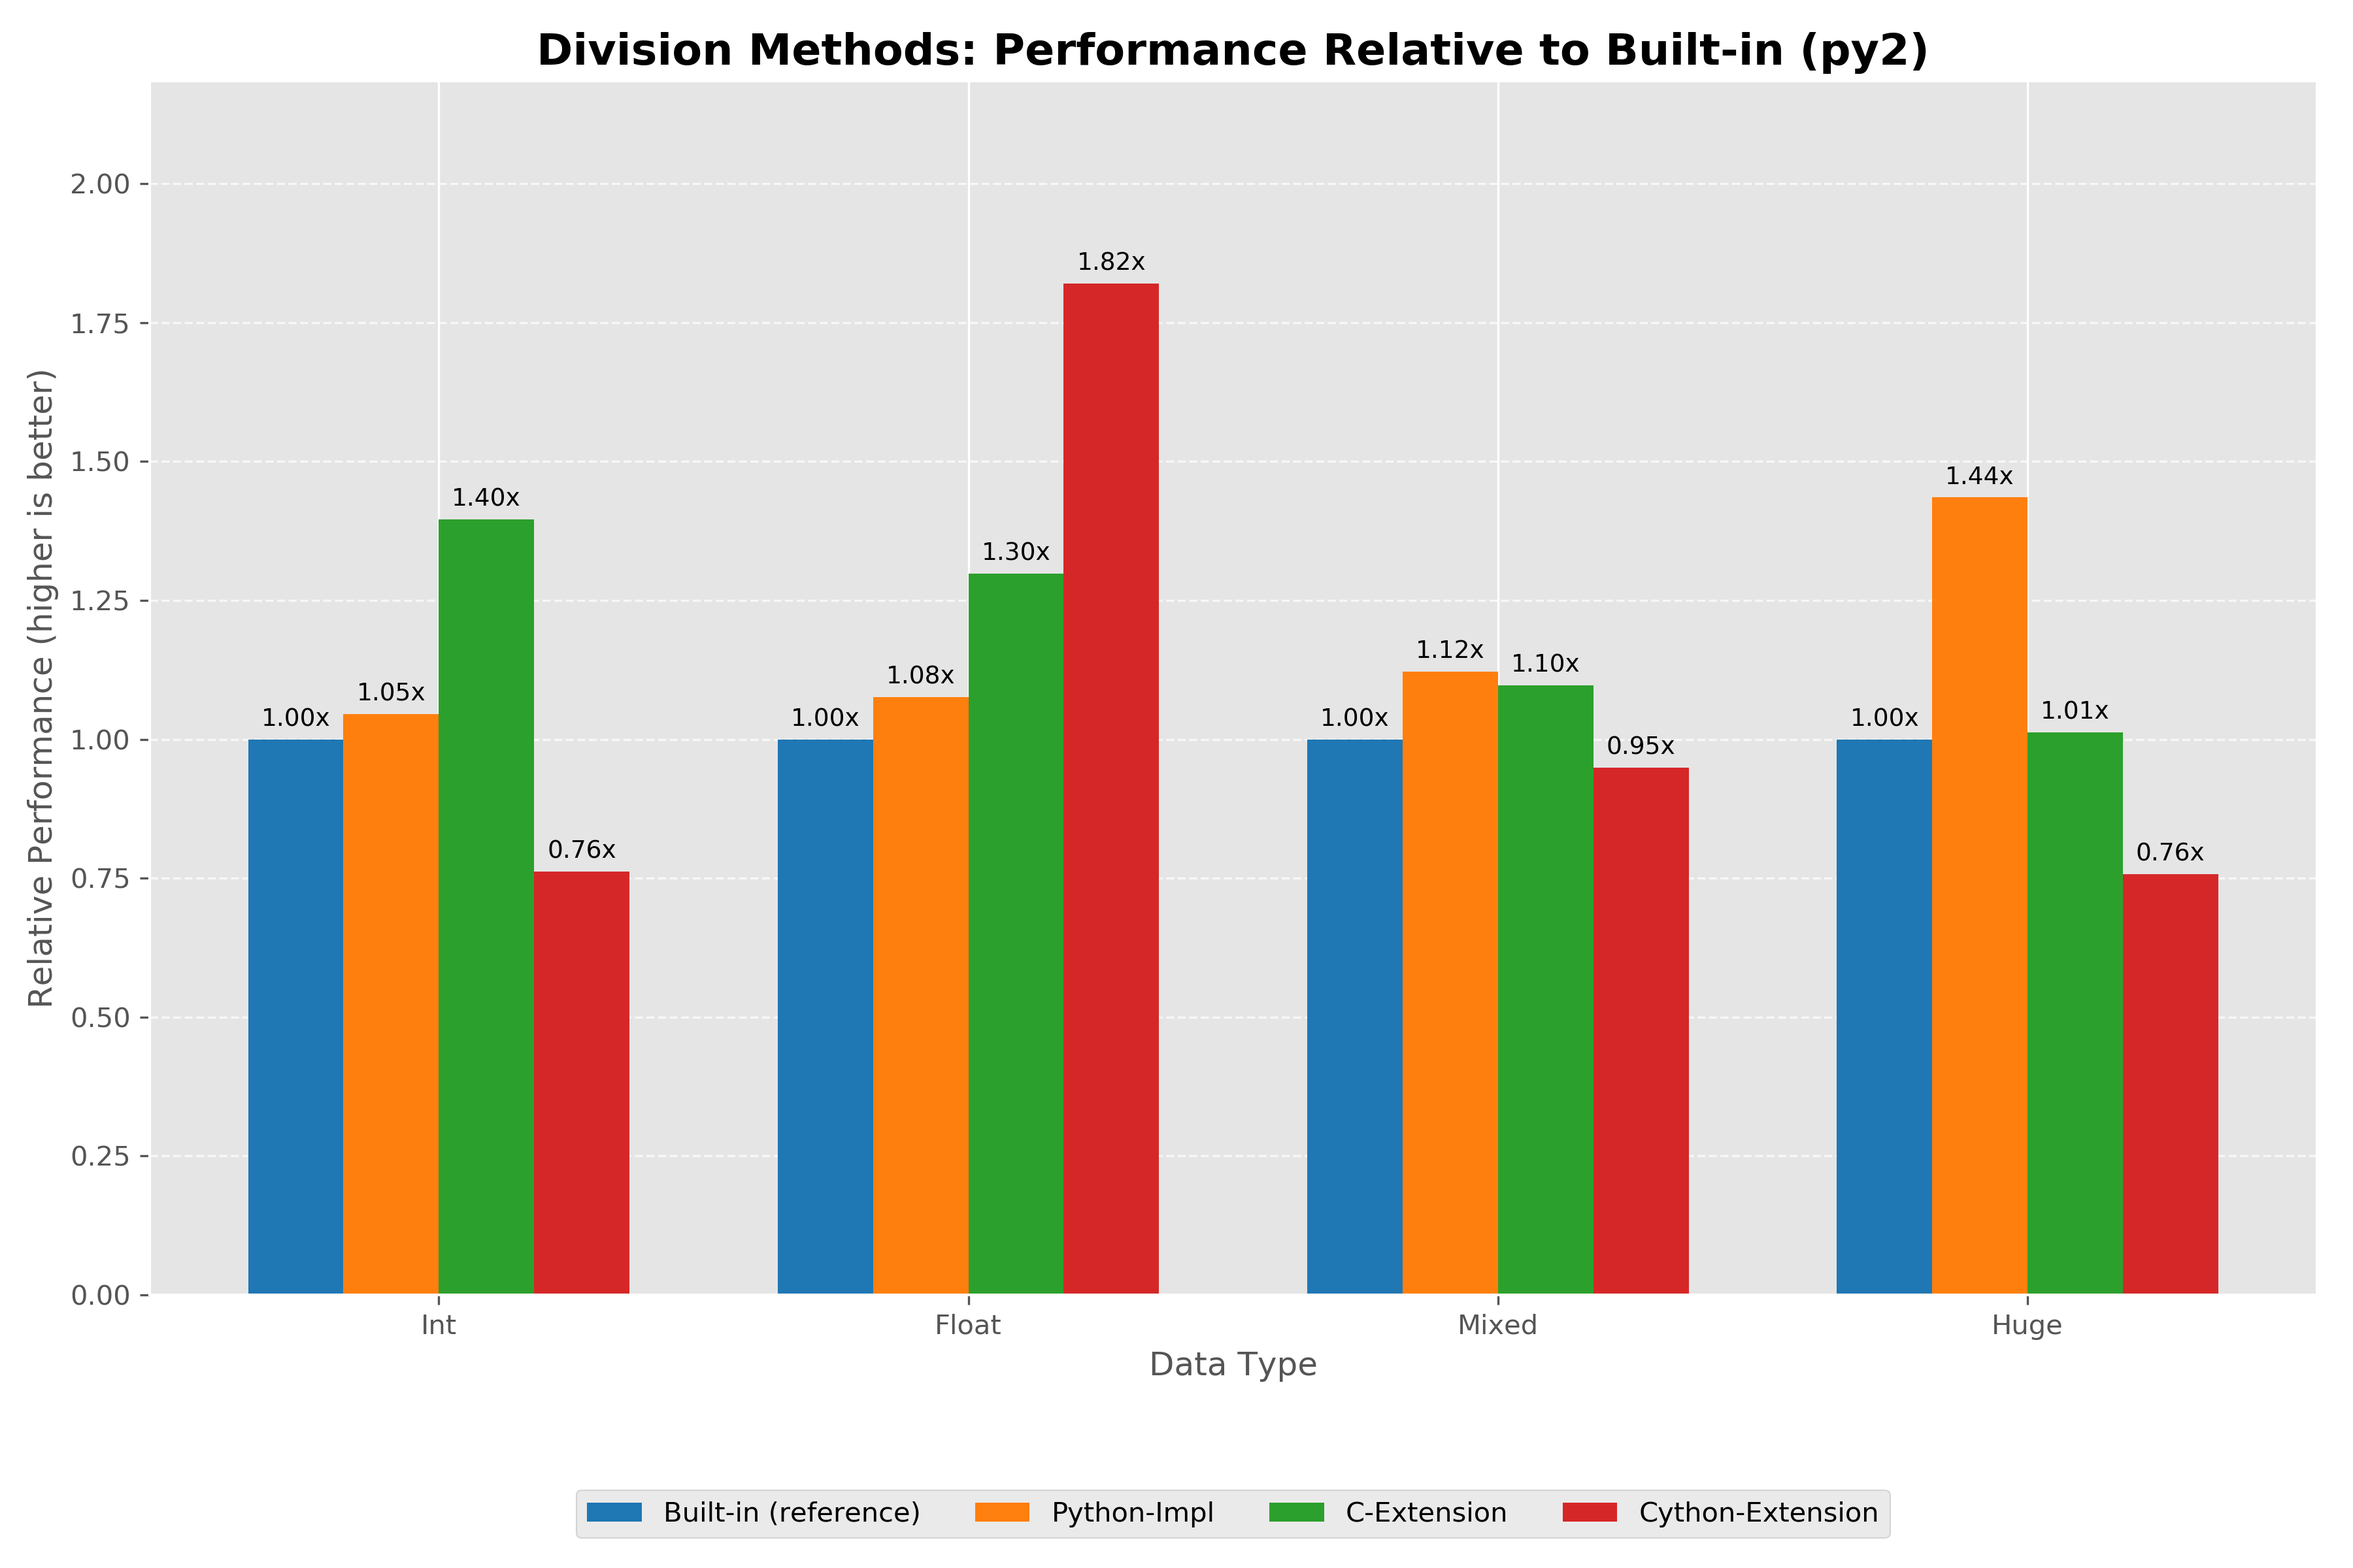
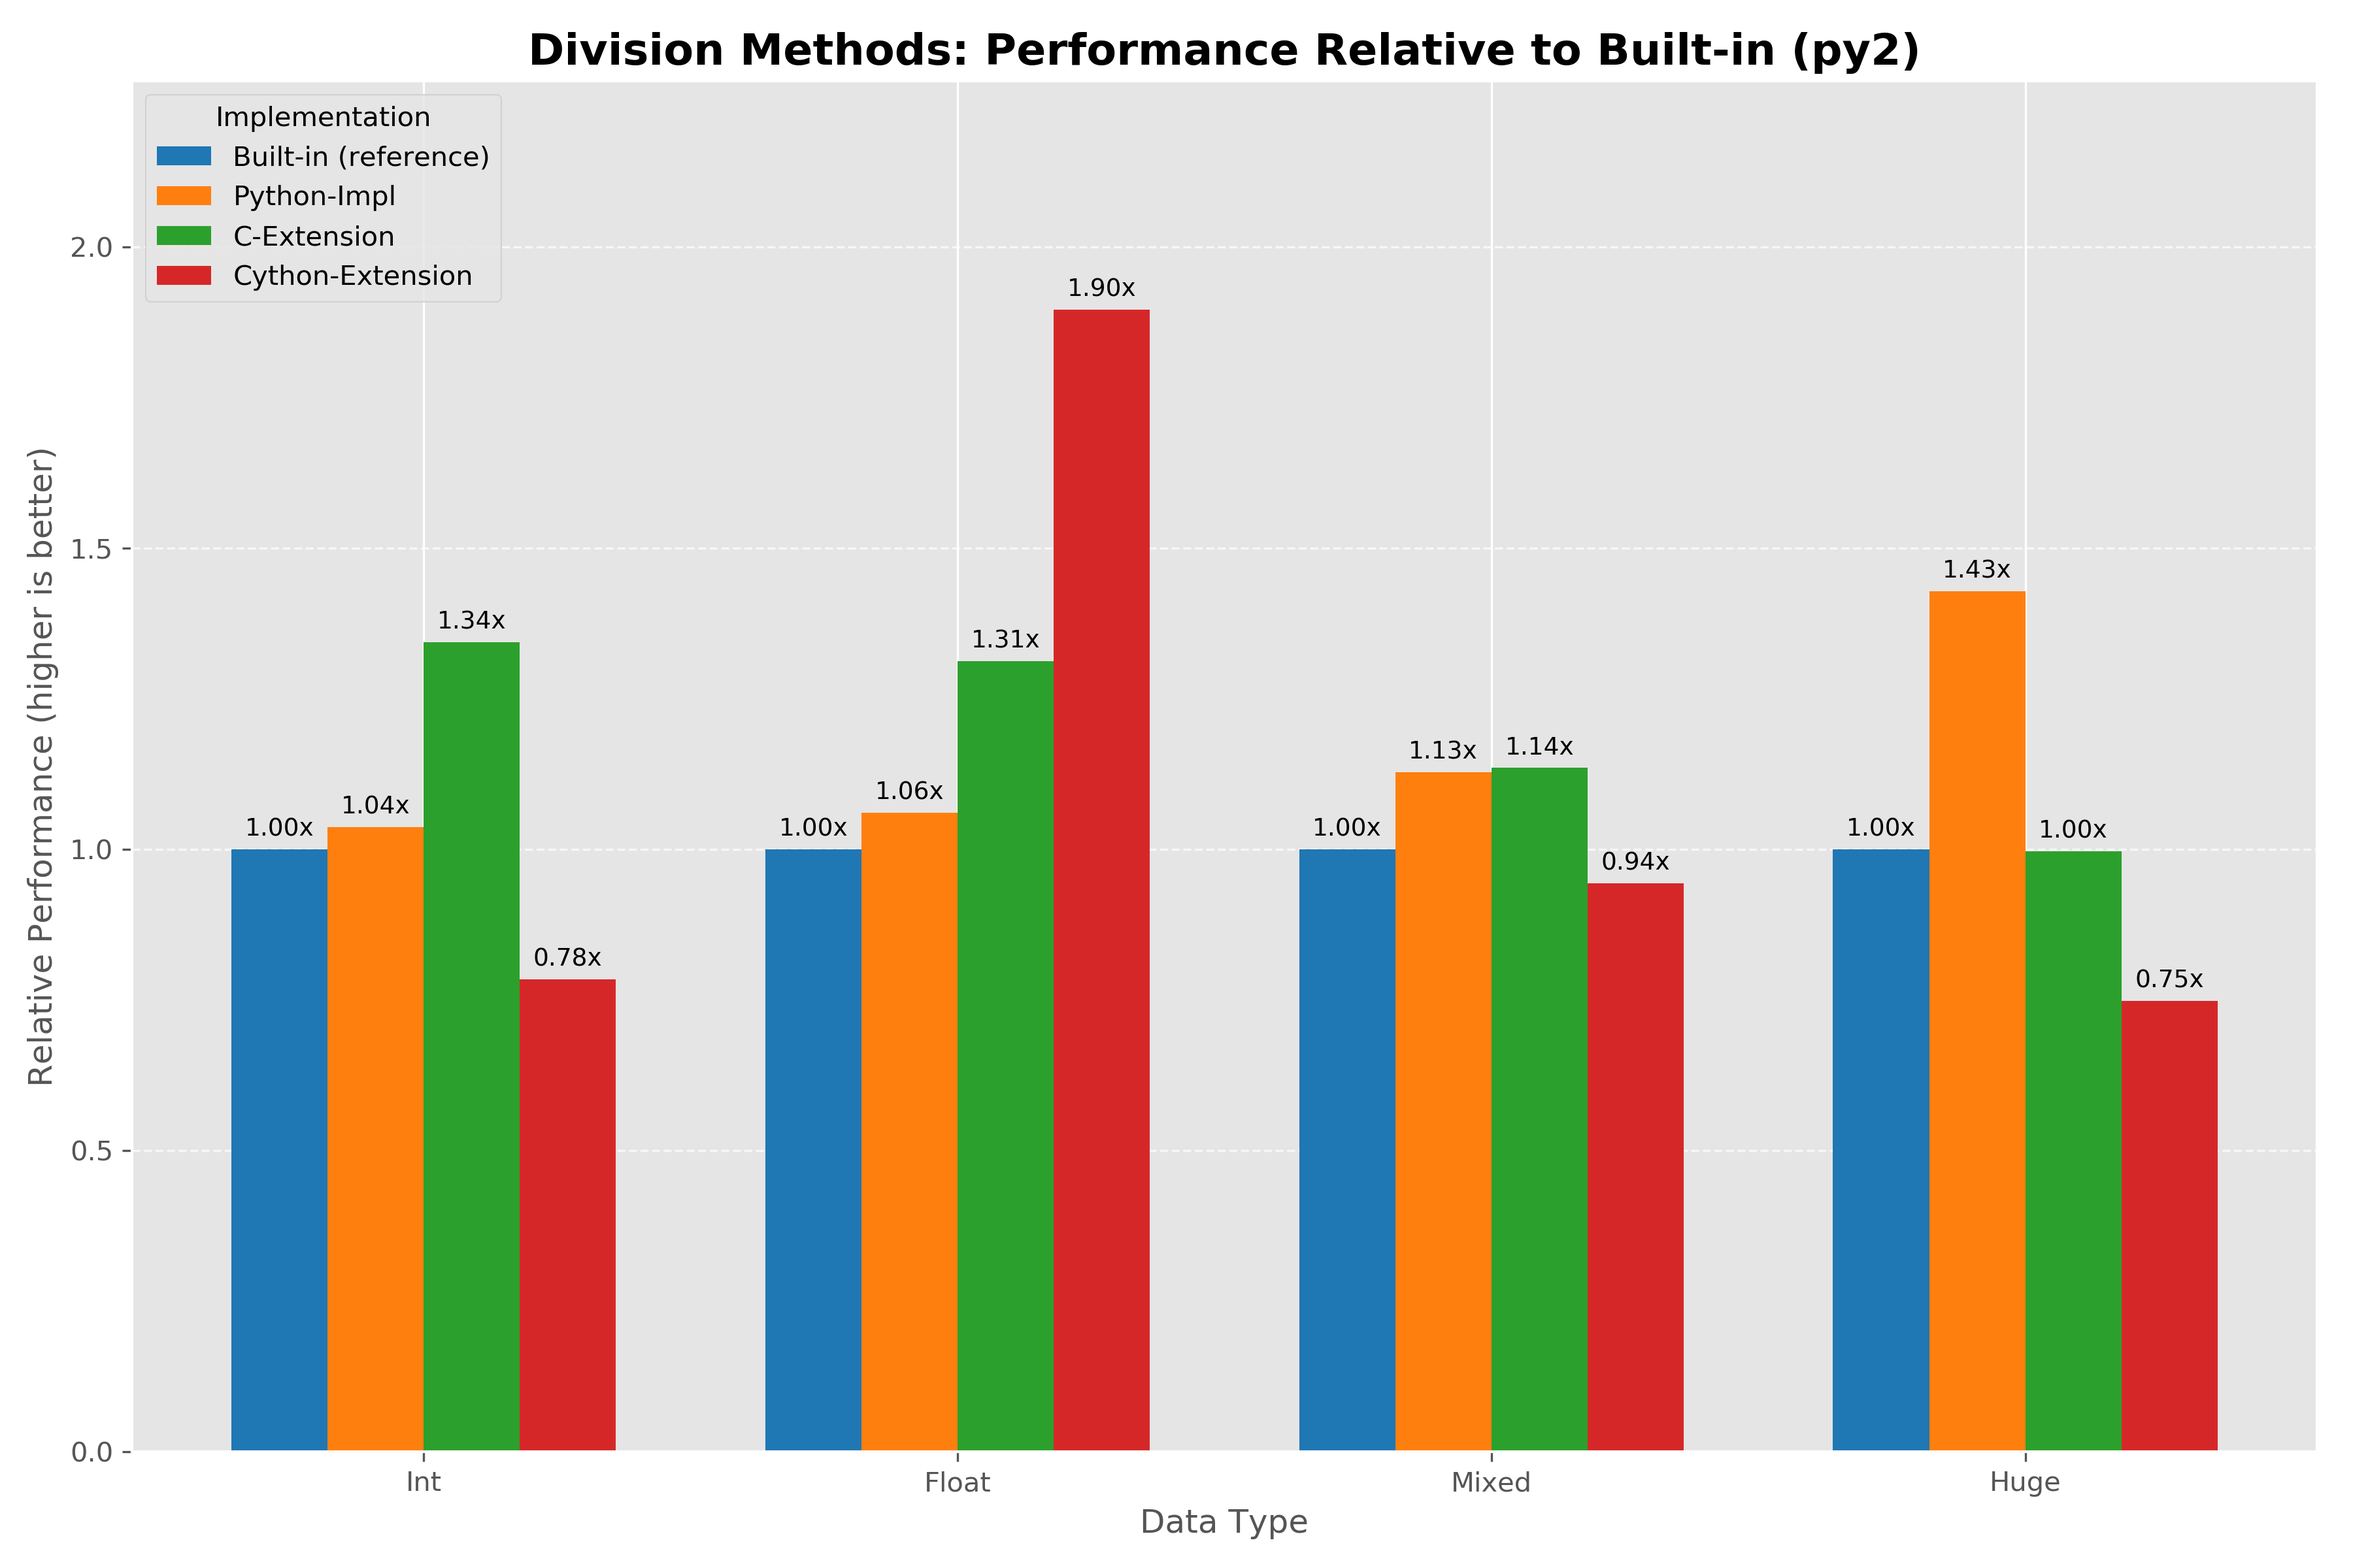
Refactor plotting functions and update styling.
Removed redundant imports and arguments in plotting functions for cleaner code. Improved plot styling by applying consistent Matplotlib styles and increasing DPI for higher-quality outputs. Updated legend placement and grid visibility for better readability.

diff --git a/division_crossbenchmark.py b/division_crossbenchmark.py
@@ -26,6 +26,12 @@ import numpy as np
 
 try:
 	import matplotlib.pyplot as plt
+	# Define default Matplotlib style
+	try:
+		plt.style.use('ggplot')  # Use a built-in style for consistency
+	except AttributeError:
+		print("Style not found. Using default Matplotlib style.")
+
 	noPics = False
 except ImportError:
 	noPics = True
@@ -372,17 +378,10 @@ def print_results_table(size, results_by_type, data_types, py2_data=None):
 		print(row_str)
 
 
-def plot_benchmark_results(size, results_by_type, data_types, py2_data=None):
+def plot_benchmark_results(results_by_type, data_types, py2_data=None):
 	"""
     Enhanced version of the benchmark results plot with improved label handling and accuracy.
     """
-	try:
-		import matplotlib.pyplot as plt
-		import numpy as np
-	except ImportError:
-		print("Matplotlib is required for plotting. Install with 'pip install matplotlib'")
-		return
-
 	colors = {
 		'built_in': '#1f77b4',  # blue
 		'python_impl': '#ff7f0e',  # orange
@@ -391,14 +390,7 @@ def plot_benchmark_results(size, results_by_type, data_types, py2_data=None):
 		'python_2': '#9467bd'  # purple
 	}
 
-	dpi = 100
 	plt.figure(figsize=(12, 8), dpi=100)
-	# plt.subplots_adjust(top=0.9, bottom=0.15, left=0.15, right=0.9)
-
-	try:
-		plt.style.use('ggplot')
-	except AttributeError:
-		print("Style not found. Using default Matplotlib style.")
 
 	x = np.arange(len(data_types))
 	bar_width = 0.15
@@ -470,28 +462,20 @@ def plot_benchmark_results(size, results_by_type, data_types, py2_data=None):
 	plt.legend(title='Implementation', loc='upper left', fontsize=10, frameon=True)
 	plt.grid(visible=True, linestyle='--', alpha=0.6)
 
-	plt.tight_layout(pad=2.0)
-	plt.savefig('plots/division_benchmark_{}.png'.format('py2' if PY2 else 'py3'), dpi=dpi, bbox_inches='tight')
+	plt.tight_layout()
+	plt.savefig('plots/division_benchmark_{}.png'.format('py2' if PY2 else 'py3'), dpi=300, bbox_inches='tight')
 	plt.show()
 
-def plot_relative_performance(size, results_by_type, data_types, py2_data=None):
+	# # Auto-scale the y-axis
+	# max_value = max(max(vals) for vals in relative_performance.values() if vals)
+	# plt.ylim(0, max_value * 1.2)  # Add 20% headroom
+
+
+def plot_relative_performance(results_by_type, data_types, py2_data=None):
 	"""
 	Generate relative performance comparison plots across all methods.
 	Shows each method's performance relative to the built-in division.
 	"""
-	try:
-		import matplotlib.pyplot as plt
-		import numpy as np
-	except ImportError:
-		print("Matplotlib is required for plotting. Install with 'pip install matplotlib'")
-		return
-
-	# Define default Matplotlib style
-	try:
-		plt.style.use('ggplot')  # Use a built-in style for consistency
-	except AttributeError:
-		print("Style not found. Using default Matplotlib style.")
-
 	# Define colors for different implementations
 	colors = {
 		'python_impl': '#ff7f0e',  # orange
@@ -590,7 +574,7 @@ def plot_relative_performance(size, results_by_type, data_types, py2_data=None):
 	plt.ylabel('Relative Performance (higher is better)', fontsize=12)
 	plt.title('Division Methods: Performance Relative to Built-in ({})'.format('py2' if PY2 else 'py3'), fontsize=16, fontweight='bold')
 	plt.xticks(x, [dtype.capitalize() for dtype in data_types], fontsize=10)
-	plt.legend(loc='upper center', bbox_to_anchor=(0.5, -0.15), ncol=total_methods)
+	plt.legend(title='Implementation', loc='upper left', fontsize=10, frameon=True)
 	plt.grid(True, linestyle='--', alpha=0.7, axis='y')
 
 	# Auto-scale the y-axis
@@ -637,8 +621,8 @@ def main():
 
 	print_results_table(size, results_by_types, data_types, py2_data)
 	if not noPics:
-		plot_benchmark_results(size, results_by_types, data_types, py2_data)
-		plot_relative_performance(size, results_by_types, data_types, py2_data)
+		plot_benchmark_results(results_by_types, data_types, py2_data)
+		plot_relative_performance(results_by_types, data_types, py2_data)
 
 if __name__ == "__main__":
 	main()
